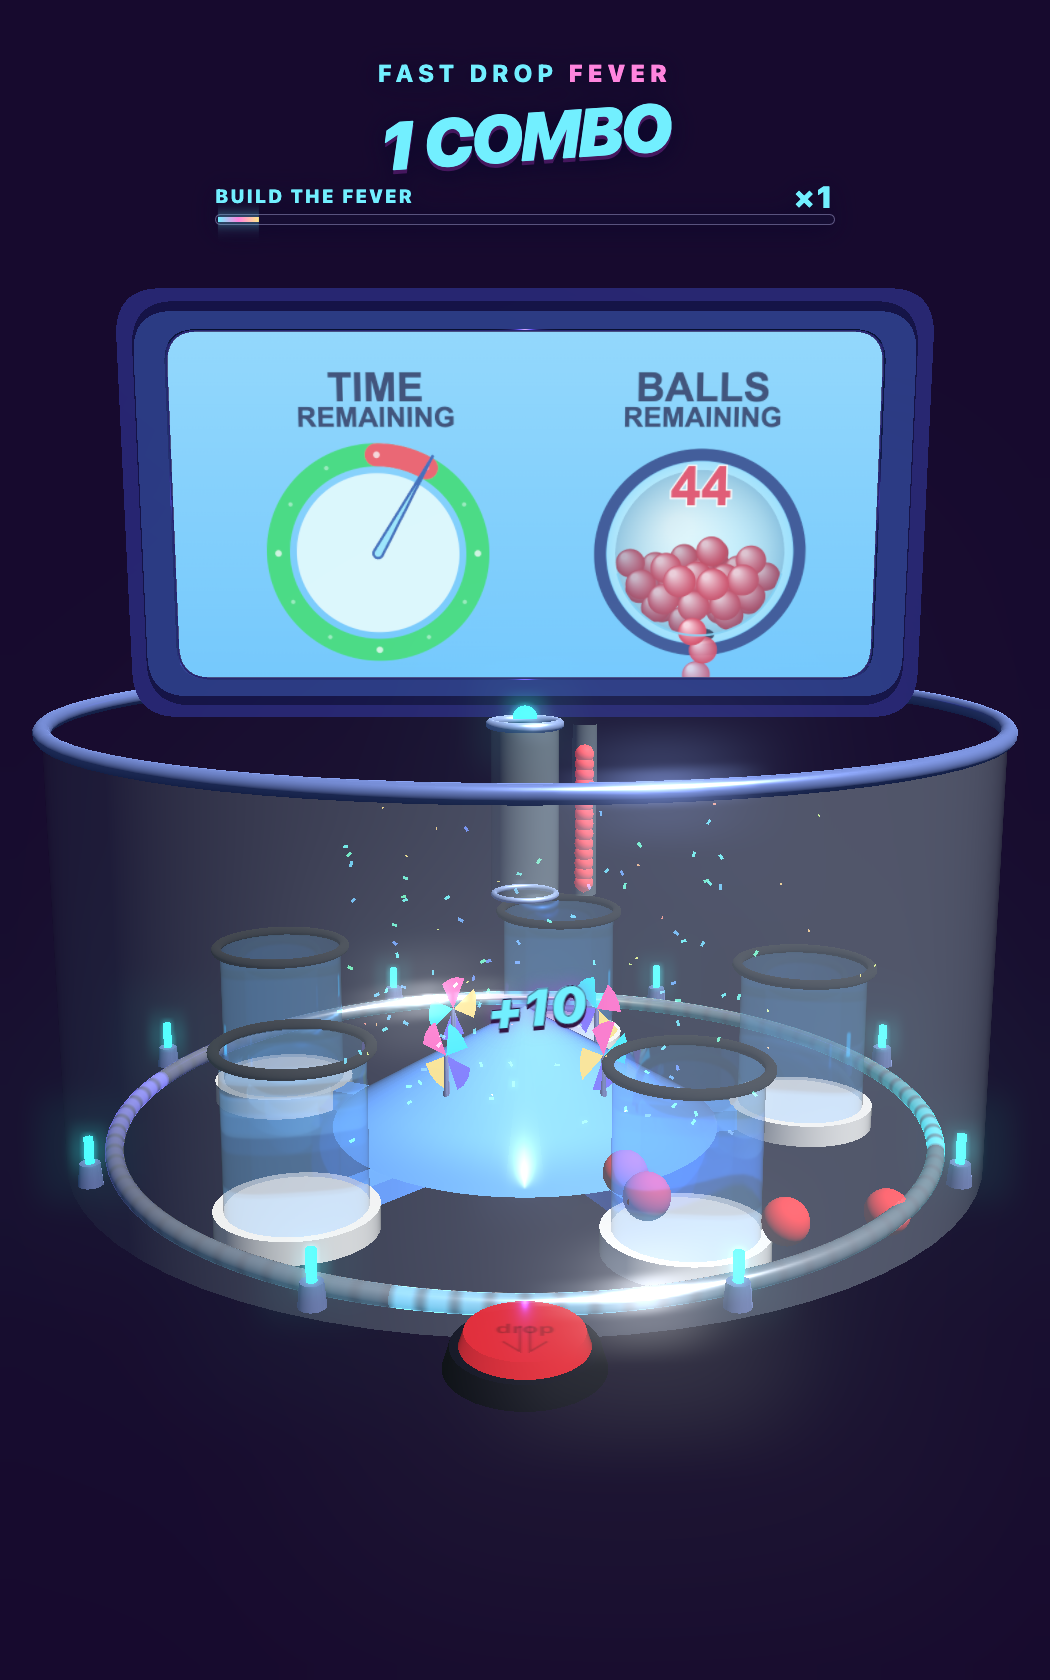
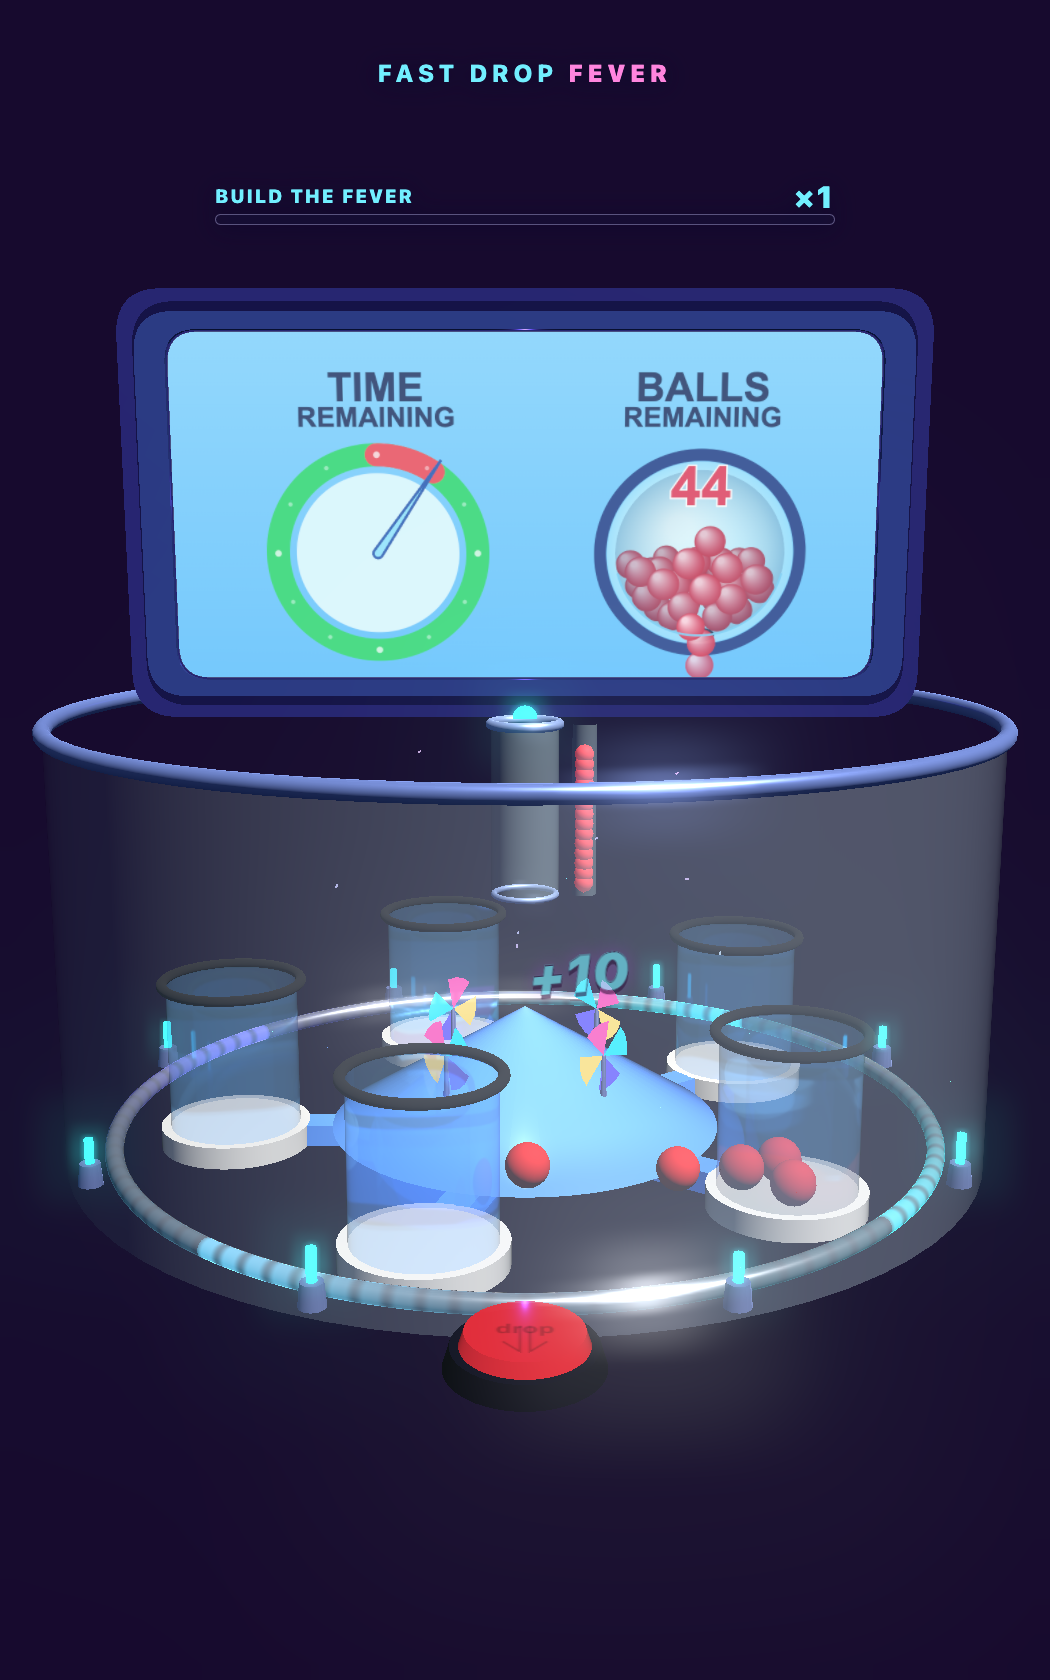
fix(fever): cap live world popups and replace older milestones
At a fast FEVER hit rate the score callouts stacked into an unreadable
pile and each combo milestone stayed under the next. Keep the newest
four score callouts live; older ones fade out over 150 ms. A new
combo milestone dismisses the previous one instead of stacking.
Dismissed popups no longer take a lane, so the live ones stay
separated. The Fever e2e asserts at most four live callouts and a
single live "15 COMBO!". Screenshots recaptured.

hook steps run manually; Playwright Chromium broken locally, e2e on system Chrome

diff --git a/src/juice/fever.ts b/src/juice/fever.ts
@@ -24,8 +24,16 @@ interface Popup {
   position: Vector3;
   age: number;
   screen: boolean;
+  milestone: boolean;
   lift: number;
+  /** 1 while live; once pushed out it falls to 0 over POPUP_DISMISS_SECONDS and the popup is removed. */
+  fade: number;
+  dismissed: boolean;
 }
+
+/** At a fast hit rate, only the newest few world callouts stay; older ones fade out quickly. */
+const MAX_LIVE_CALLOUTS = 4;
+const POPUP_DISMISS_SECONDS = 0.15;
 
 export const createFeverSink = (
   host: HTMLElement,
@@ -105,10 +113,26 @@ export const createFeverSink = (
     position: Vector3,
     color: string,
     screen: boolean,
-    tag = ''
+    tag = '',
+    milestone = false
   ): void => {
     // Bounded DOM, even under a scripted burst of hits.
     if (popups.length >= 24) popups.shift()!.element.remove();
+    const dismiss = (p: Popup): void => {
+      p.dismissed = true;
+      p.element.dataset.dismissed = 'true';
+    };
+    if (milestone) {
+      // A newer milestone replaces the older one instead of stacking over it.
+      popups.filter((p) => p.milestone && !p.dismissed).forEach(dismiss);
+    } else if (!screen) {
+      const live = popups.filter(
+        (p) => !p.screen && !p.milestone && !p.dismissed
+      );
+      live
+        .slice(0, Math.max(0, live.length - (MAX_LIVE_CALLOUTS - 1)))
+        .forEach(dismiss);
+    }
     const element = document.createElement('div');
     element.className = `fever-popup${screen ? ' fever-popup--hero' : ''}`;
     element.textContent = text;
@@ -124,14 +148,20 @@ export const createFeverSink = (
     root.append(element);
     const lane = popups.filter(
       (p) =>
-        !p.screen && p.age < 0.7 && p.position.distanceToSquared(position) < 0.1
+        !p.screen &&
+        !p.dismissed &&
+        p.age < 0.7 &&
+        p.position.distanceToSquared(position) < 0.1
     ).length;
     popups.push({
       element,
       position: position.clone(),
       age: 0,
       screen,
-      lift: screen ? 0 : (lane % 3) * 112
+      milestone,
+      lift: screen ? 0 : (lane % 3) * 112,
+      fade: 1,
+      dismissed: false
     });
   };
 
@@ -189,7 +219,8 @@ export const createFeverSink = (
         position,
         tuning.color,
         event === 'fever-start' || event === 'round-end',
-        tag
+        tag,
+        event === 'combo-milestone'
       );
     }
     if (event === 'jar-hit' && state.combo % 5 === 0)
@@ -258,7 +289,9 @@ export const createFeverSink = (
       for (let i = popups.length - 1; i >= 0; i -= 1) {
         const p = popups[i];
         p.age += realDt;
-        if (p.age > 1.4) {
+        if (p.dismissed)
+          p.fade = Math.max(0, p.fade - realDt / POPUP_DISMISS_SECONDS);
+        if (p.age > 1.4 || p.fade <= 0) {
           p.element.remove();
           popups.splice(i, 1);
           continue;
@@ -268,7 +301,9 @@ export const createFeverSink = (
         p.element.style.top = `${p.screen ? 40 : (-projected.y * 0.5 + 0.5) * 100}%`;
         const spring = 1 - Math.exp(-p.age * 12) * Math.cos(p.age * 20);
         p.element.style.transform = `translate(-50%, calc(-100% - ${p.age * 75 + p.lift}px)) scale(${spring}) rotate(-5deg)`;
-        p.element.style.opacity = String(Math.min(1, (1.4 - p.age) * 3));
+        p.element.style.opacity = String(
+          Math.min(1, (1.4 - p.age) * 3) * p.fade
+        );
       }
       if (state.feverRemaining > 0) {
         fireworksTimer += realDt;

diff --git a/tests/e2e/fever.spec.ts b/tests/e2e/fever.spec.ts
@@ -38,6 +38,12 @@ test('scripted jar hits build combo into FEVER without losing portrait framing',
         );
       }
     }
+    // 15 hits 8 frames apart: without the cap about ten callouts and three milestones would still be on screen.
+    const live = [
+      ...document.querySelectorAll<HTMLElement>(
+        '.fever-popup:not(.fever-popup--hero):not([data-dismissed])'
+      )
+    ].map((p) => p.textContent);
     const state = bridge.getJuiceState!();
     const game = bridge.getGameState!();
     const tag = [...document.querySelectorAll('.fever-popup')]
@@ -66,6 +72,7 @@ test('scripted jar hits build combo into FEVER without losing portrait framing',
       game,
       maxNdc,
       milestoneSeparated,
+      live,
       points: tag?.firstChild?.textContent,
       tag: tag?.querySelector('.fever-popup__tag')?.textContent,
       feverStats,
@@ -85,6 +92,13 @@ test('scripted jar hits build combo into FEVER without losing portrait framing',
   expect(result.game.score).toBe(320);
   expect(result.game.hits).toBe(15);
   expect(result.milestoneSeparated).toBe(true);
+  // Fast hits keep at most four score callouts, and the newest milestone replaced the older ones.
+  expect(
+    result.live.filter((text) => !text?.endsWith('COMBO!')).length
+  ).toBeLessThanOrEqual(4);
+  expect(result.live.filter((text) => text?.endsWith('COMBO!'))).toEqual([
+    '15 COMBO!'
+  ]);
   // The popup shows the awarded points, with the multiplier as a separate tag.
   expect(result.points).toBe('+30');
   expect(result.tag).toBe('×3');
